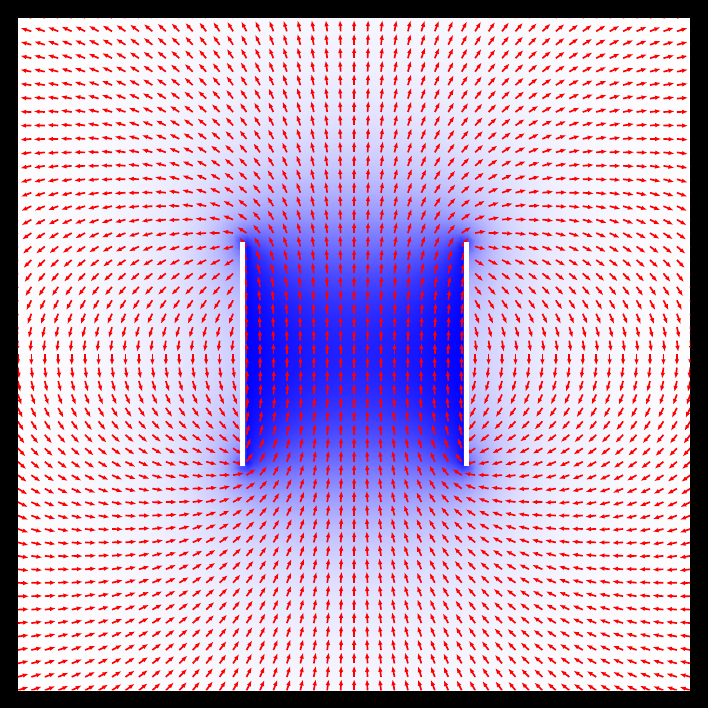
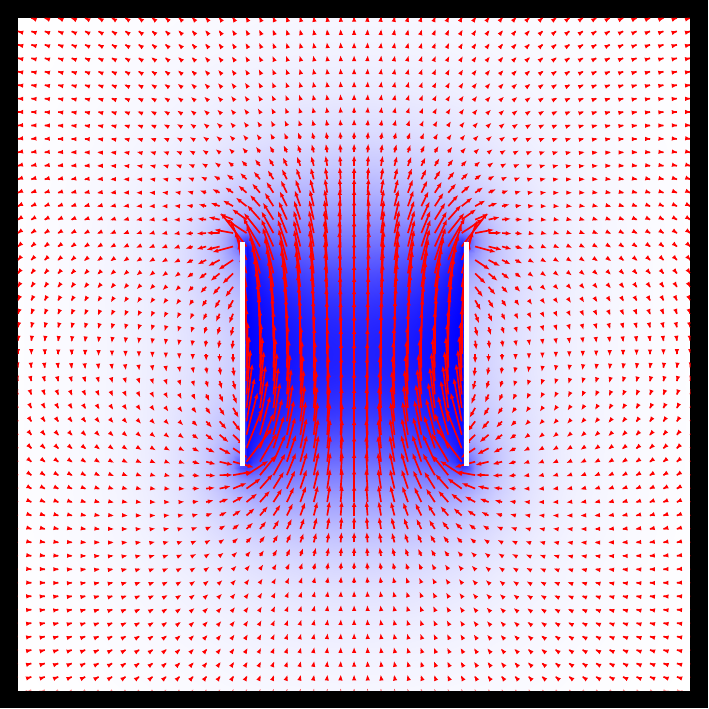
use non-uniform arrow length

Changed region(s): [[0.0, 0.031, 0.9929, 0.9929]]

diff --git a/electrodynamics/solenoid-vectorfield/solenoid-vectorfield.tex b/electrodynamics/solenoid-vectorfield/solenoid-vectorfield.tex
@@ -74,7 +74,7 @@ Ba(x,y,z) = sqrt(Br(r(x,y,z),z)**2 + Bz(x,y,z)**2)
 set table "solenoid-vectorfield.pgf-plot.dat";
 set format "%.7e";
 
-plot "++" using 1:2:(Bx($1,0,$2)/Ba($1,0,$2)):(Bz($1,0,$2)/Ba($1,0,$2)) with vectors
+plot "++" using 1:2:(Bx($1,0,$2)):(Bz($1,0,$2)) with vectors
 
 unset table
 \end{filecontents*}
@@ -142,7 +142,7 @@ unset table
     quiver={
       u=\thisrowno{2}, % 3rd column
       v=\thisrowno{3}, % 4th column
-      scale arrows=0.1,
+      scale arrows=0.04,
     },
   ] table[col sep=space] {solenoid-vectorfield.pgf-plot.dat};
   % solenoid

diff --git a/electrodynamics/solenoid-vectorfield/solenoid-vectorfield_inverted.tex b/electrodynamics/solenoid-vectorfield/solenoid-vectorfield_inverted.tex
@@ -83,7 +83,7 @@ Ba(x,y,z) = sqrt(Br(r(x,y,z),z)**2 + Bz(x,y,z)**2)
 set table "solenoid-vectorfield.pgf-plot.dat";
 set format "%.7e";
 
-plot "++" using 1:2:(Bx($1,0,$2)/Ba($1,0,$2)):(Bz($1,0,$2)/Ba($1,0,$2)) with vectors
+plot "++" using 1:2:(Bx($1,0,$2)):(Bz($1,0,$2)) with vectors
 
 unset table
 \end{filecontents*}
@@ -151,7 +151,7 @@ unset table
     quiver={
       u=\thisrowno{2}, % 3rd column
       v=\thisrowno{3}, % 4th column
-      scale arrows=0.1,
+      scale arrows=0.04,
     },
   ] table[col sep=space] {solenoid-vectorfield.pgf-plot.dat};
   % solenoid